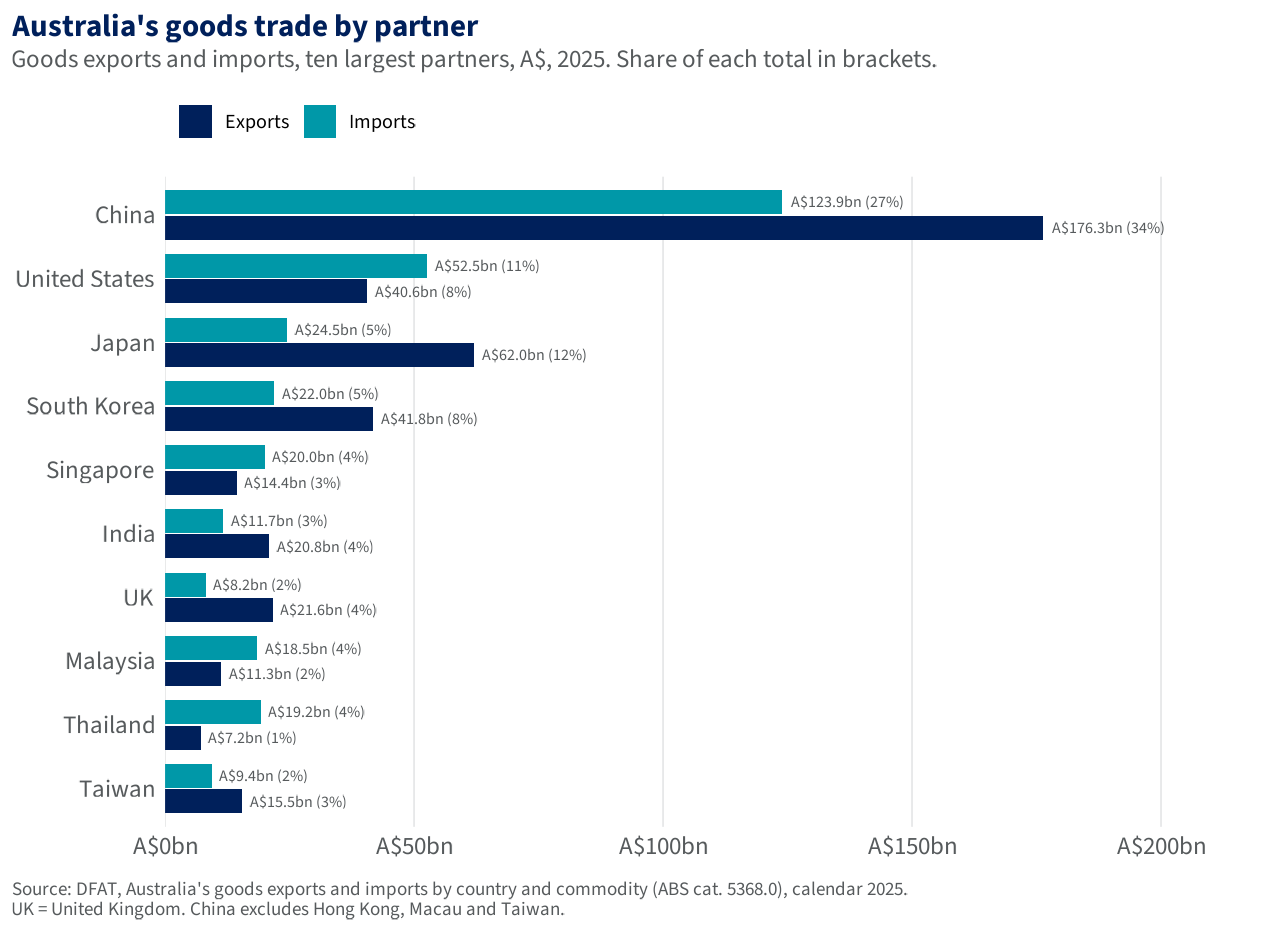
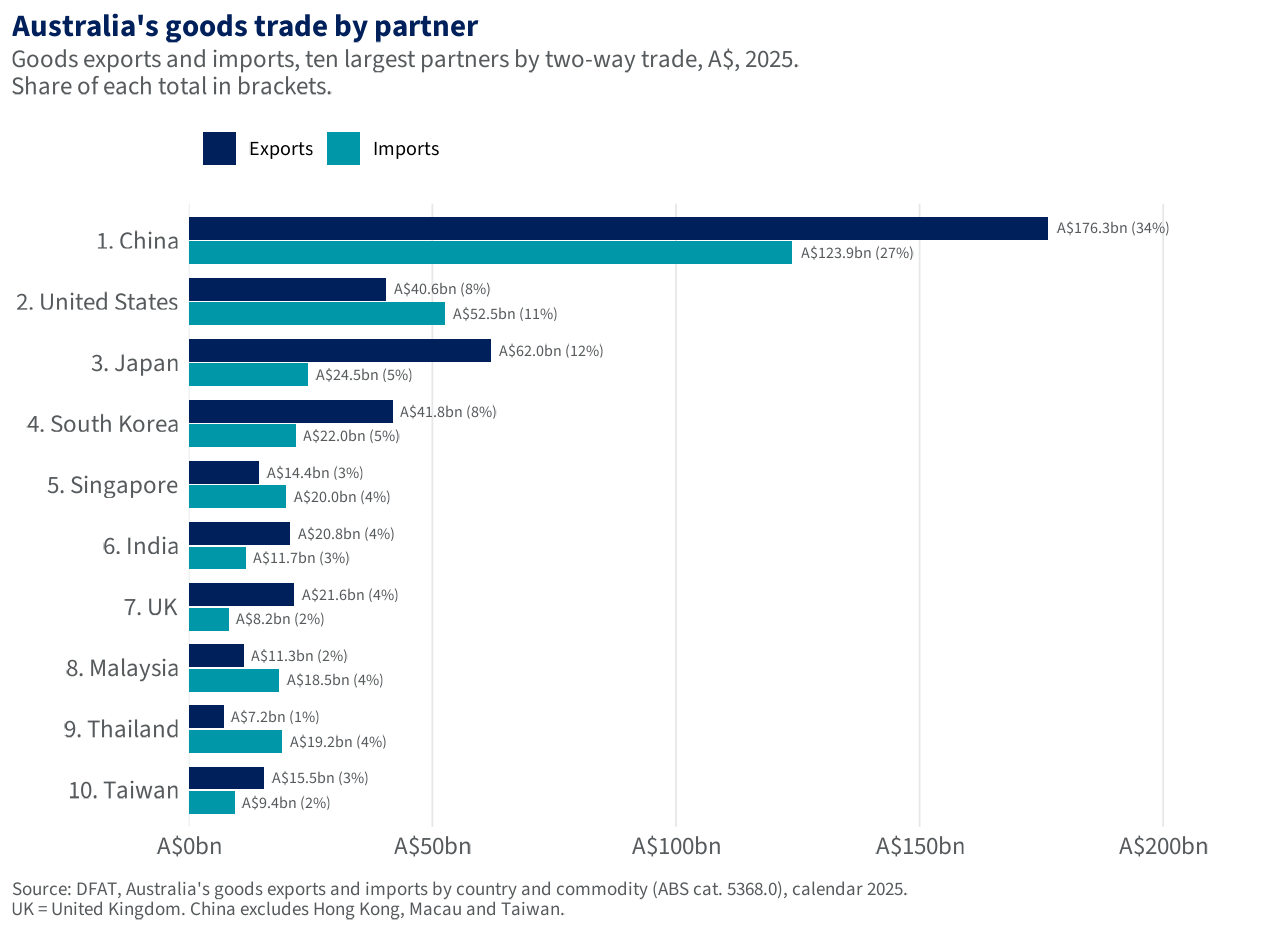
Trade overview: side-by-side goods and services panels; partners ranked by two-way trade
- Goods (left) and services (right) panels again sit side by side; the US trade
  chart is a tab in the services panel. Stacked-section CSS removed.
- Goods and services trade-by-partner charts: the ten largest partners by
  two-way trade (exports plus imports), numbered 1-10, largest first, with
  exports drawn above imports to match the legend.

diff --git a/theme/csis-redesign.scss b/theme/csis-redesign.scss
@@ -258,10 +258,3 @@ $border-radius:           6px;
 @media (max-width: 640px) { .page-guide-link { position: static; display: block; margin-top: 4px; } }
 
 .page-guide-link.inline { position: static; display: block; margin: 2px 0 0; font-weight: 400; }
-
-// Trade overview scrolls through goods, services and US sections: keep each
-// chart to about one screen
-#trade-overview .card { max-height: 640px; }
-#trade-overview .card img { max-height: 540px; width: auto; max-width: 100%; object-fit: contain; margin: 0 auto; display: block; }
-#trade-overview .card-body { overflow: hidden !important; }
-#trade-overview .card img { max-height: 520px; }
